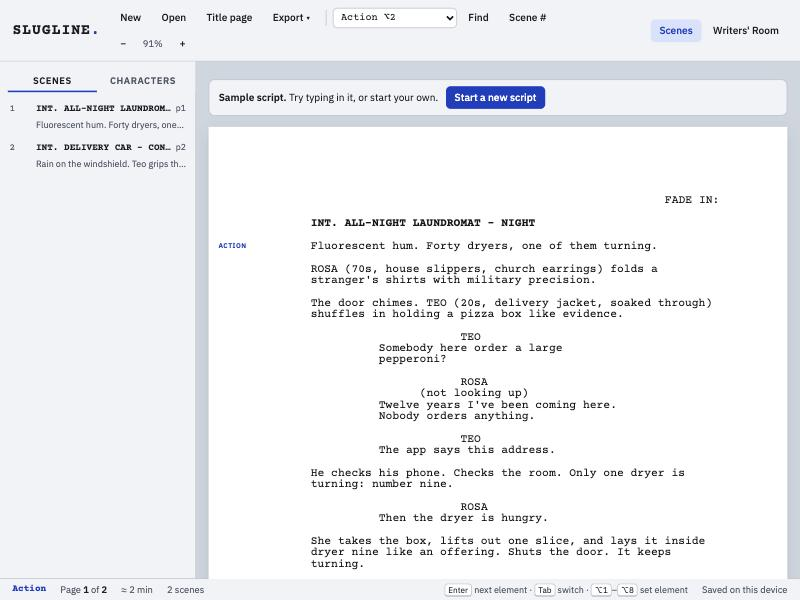
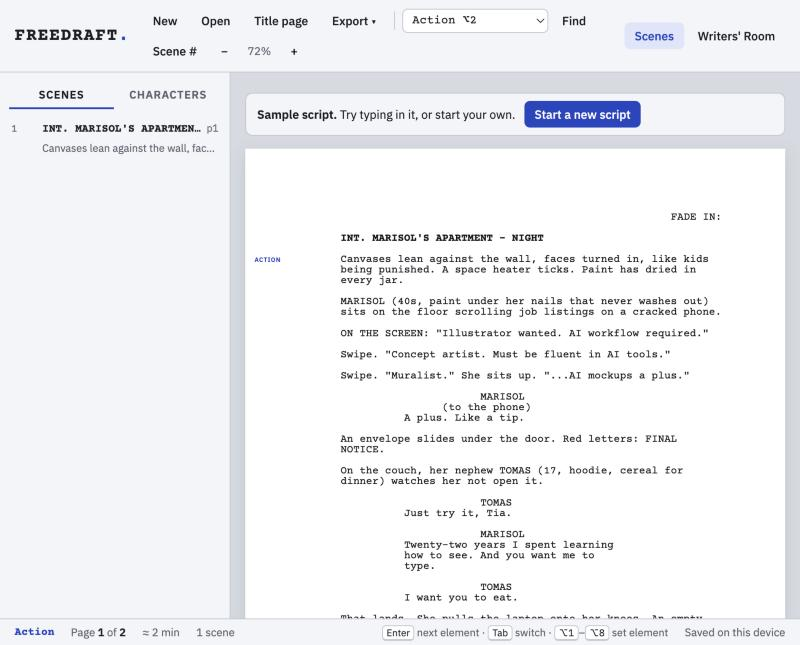
Rename Slugline to FreeDraft

diff --git a/index.html b/index.html
@@ -6,7 +6,7 @@
 <style>[hidden]{display:none!important}body{margin:0}</style>
 </head>
 <body>
-<title>Slugline</title>
+<title>FreeDraft</title>
 <meta name="claude:viewport-fit-sides" content="cover">
 <link rel="preconnect" href="https://fonts.googleapis.com">
 <link rel="preconnect" href="https://fonts.gstatic.com" crossorigin>
@@ -179,7 +179,7 @@ kbd{font-family:var(--ui);font-size:10.5px;border:1px solid var(--line);border-b
 </style>
 
 <header class="bar">
-  <div class="brand">SLUGLINE<i>.</i></div>
+  <div class="brand">FREEDRAFT<i>.</i></div>
   <nav class="tools" aria-label="Script tools">
     <button class="btn" id="bNew">New</button>
     <button class="btn" id="bOpen">Open</button>
@@ -1040,7 +1040,7 @@ async function aiContinue(){
   const out=await ask(input,c,{},true); if(out==null) return; scriptResult(c,out,null);
 }
 function aiFormat(){
-  modal(`<h3>Format text as a screenplay</h3><p>Paste notes, prose, a treatment, or script text copied from a PDF or Word file. "Format with AI" turns it into proper screenplay elements. "Insert as-is" uses Slugline's own formatter and works offline.</p>
+  modal(`<h3>Format text as a screenplay</h3><p>Paste notes, prose, a treatment, or script text copied from a PDF or Word file. "Format with AI" turns it into proper screenplay elements. "Insert as-is" uses FreeDraft's own formatter and works offline.</p>
    <textarea class="big" id="fmtIn" placeholder="Rosa is folding laundry when a delivery guy walks in with a pizza nobody ordered…"></textarea>
    <div class="mact"><button class="btn line" data-close>Cancel</button><button class="btn line" id="fmtRaw">Insert as-is</button><button class="btn primary" id="fmtAI">Format with AI</button></div>`, b=>{
     b.querySelector('#fmtRaw').onclick=()=>{ const v=b.querySelector('#fmtIn').value; const bs=parseFountain(v).blocks; closeModal(); if(bs.length) insertBlocksAt(bs); };

diff --git a/freedraft.html b/freedraft.html
@@ -1,4 +1,4 @@
-<title>Slugline</title>
+<title>FreeDraft</title>
 <meta name="claude:viewport-fit-sides" content="cover">
 <link rel="preconnect" href="https://fonts.googleapis.com">
 <link rel="preconnect" href="https://fonts.gstatic.com" crossorigin>
@@ -171,7 +171,7 @@ kbd{font-family:var(--ui);font-size:10.5px;border:1px solid var(--line);border-b
 </style>
 
 <header class="bar">
-  <div class="brand">SLUGLINE<i>.</i></div>
+  <div class="brand">FREEDRAFT<i>.</i></div>
   <nav class="tools" aria-label="Script tools">
     <button class="btn" id="bNew">New</button>
     <button class="btn" id="bOpen">Open</button>
@@ -1032,7 +1032,7 @@ async function aiContinue(){
   const out=await ask(input,c,{},true); if(out==null) return; scriptResult(c,out,null);
 }
 function aiFormat(){
-  modal(`<h3>Format text as a screenplay</h3><p>Paste notes, prose, a treatment, or script text copied from a PDF or Word file. "Format with AI" turns it into proper screenplay elements. "Insert as-is" uses Slugline's own formatter and works offline.</p>
+  modal(`<h3>Format text as a screenplay</h3><p>Paste notes, prose, a treatment, or script text copied from a PDF or Word file. "Format with AI" turns it into proper screenplay elements. "Insert as-is" uses FreeDraft's own formatter and works offline.</p>
    <textarea class="big" id="fmtIn" placeholder="Rosa is folding laundry when a delivery guy walks in with a pizza nobody ordered…"></textarea>
    <div class="mact"><button class="btn line" data-close>Cancel</button><button class="btn line" id="fmtRaw">Insert as-is</button><button class="btn primary" id="fmtAI">Format with AI</button></div>`, b=>{
     b.querySelector('#fmtRaw').onclick=()=>{ const v=b.querySelector('#fmtIn').value; const bs=parseFountain(v).blocks; closeModal(); if(bs.length) insertBlocksAt(bs); };

diff --git a/README.md b/README.md
@@ -1,13 +1,13 @@
-# Slugline
+# FreeDraft
 
 A free screenwriting app with an AI writers' room. It is one file: no install, no account, no subscription.
 
-![Slugline editor with a sample script](docs/screenshot.jpg)
+![FreeDraft editor with a sample script](docs/screenshot.jpg)
 
 ## Get it
 
-- **Use it online:** https://lmvision-create.github.io/slugline/
-- **Download it:** [Slugline.html](https://github.com/lmvision-create/slugline/releases/latest/download/Slugline.html). Double-click the file to open it in your browser. It works offline except for the AI features.
+- **Use it online:** https://lmvision-create.github.io/freedraft/
+- **Download it:** [FreeDraft.html](https://github.com/lmvision-create/freedraft/releases/latest/download/FreeDraft.html). Double-click the file to open it in your browser. It works offline except for the AI features.
 
 ## What it does
 
@@ -48,6 +48,6 @@ The Writers' Room runs on Claude. Add your own [Anthropic API key](https://conso
 
 ## For developers
 
-`slugline.html` is the app. `./build.sh` wraps it into the standalone `index.html`. There's no build step beyond that and no dependencies to install. jsPDF, JSZip and the Anthropic SDK load from public CDNs.
+`freedraft.html` is the app. `./build.sh` wraps it into the standalone `index.html`. There's no build step beyond that and no dependencies to install. jsPDF, JSZip and the Anthropic SDK load from public CDNs.
 
-Slugline is an independent project and isn't affiliated with Final Draft or Cast & Crew. It's licensed under [MIT](LICENSE).
+FreeDraft is an independent project and isn't affiliated with Final Draft or Cast & Crew. It's licensed under [MIT](LICENSE).
